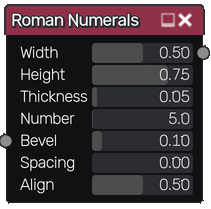
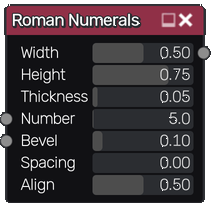
Exposed number as an input map for 7seg/roman no.

diff --git a/material_maker/doc/node_simple_seven_segment_display.rst b/material_maker/doc/node_simple_seven_segment_display.rst
@@ -9,7 +9,11 @@ The **Seven Segment Display** node outputs a seven segment display with variable
 Inputs
 ++++++
 
-The **Seven Segment Display** node accepts an optional bevel map, which the parameter is multiplied by the map value.
+The **Seven Segment Display** node accepts two inputs:
+
+* Optional *Number Map* which the number parameter is multiplied by the map value.
+
+* Optional *Bevel Map* which the bevel parameter is multiplied by the map value.
 
 Outputs
 +++++++

diff --git a/material_maker/doc/node_simple_roman_numerals.rst b/material_maker/doc/node_simple_roman_numerals.rst
@@ -9,7 +9,11 @@ The **Roman numerals** node outputs roman numbers up to 3999
 Inputs
 ++++++
 
-The **Roman numerals** node accepts an optional bevel map, which the parameter is multiplied by the map value.
+The **Roman numerals** node accepts two inputs:
+
+* Optional *Number Map* which the number parameter is multiplied by the map value.
+
+* Optional *Bevel Map* which the bevel parameter is multiplied by the map value.
 
 Outputs
 +++++++
